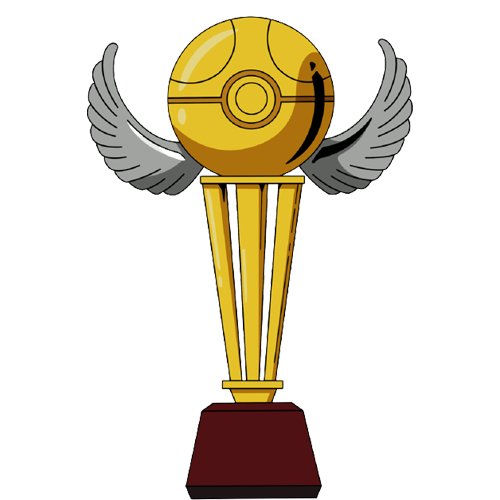
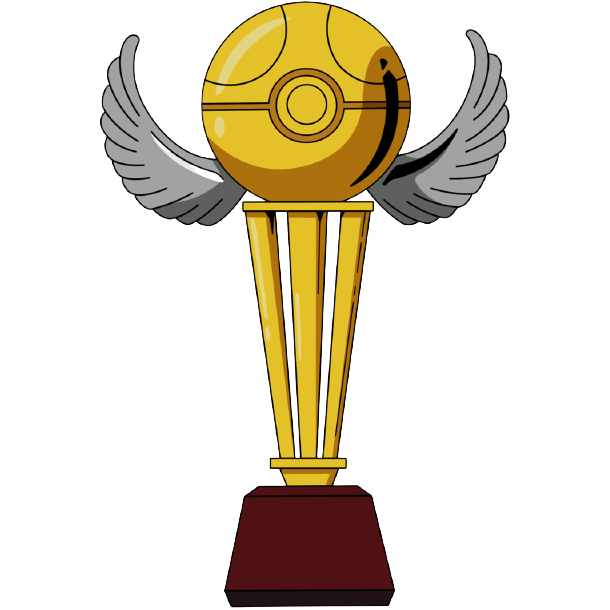
[GAME PLAYABLE] Centered win/lose pictures on the optionpane
-formatted pictures for win/lose and centered them
-put pikachu laughing as lose

Changed region(s): [[0.15, 0.0, 0.84, 1.0]]

diff --git a/src/view/Win_Lose/WinPane.java b/src/view/Win_Lose/WinPane.java
@@ -10,6 +10,7 @@ import view.PokemonPanel;
 
 /**
  * Used to tell player they won
+ * 
  * @author Kenneth Ahrens
  *
  */
@@ -18,11 +19,11 @@ public class WinPane extends AbstractWinLosePane {
 	/*
 	 * Constants that represent winning messages
 	 */
-	private final String FIN = "You reached the end!\nGood job!";
-	private final String CLEAR_ALL = "Wow, you cleared every room in the maze!"
-			+ "\nYou really are a Pokemon master!";
-	private final String TITLE = "You win!";
-	
+	private final String FIN = "You reached the end!";
+	private final String CLEAR_ALL = "Wow, you really are a Pokemon master! Congratulations!";
+	private final String TITLE = "You won!";
+	private final String CLEAR_TITLE = "You cleared the whole maze! You're a living Pokedex!";
+
 	/*
 	 * Icons that represent winning
 	 */
@@ -30,7 +31,7 @@ public class WinPane extends AbstractWinLosePane {
 	private final ImageIcon myWin;
 	private final String myWinPath = "./src/images/win_lose/win_trophy.png";
 	private final ImageIcon myWinAll;
-	private final String myWinAllPath = "./src/images/win_lose/pikadance.gif";
+	private final String myWinAllPath = "./src/images/win_lose/pikachucheer.gif";
 
 	/**
 	 * 
@@ -38,9 +39,7 @@ public class WinPane extends AbstractWinLosePane {
 	 */
 	public WinPane(final PokemonPanel thePanel) {
 		super(thePanel);
-		ImageIcon win = new ImageIcon(myWinPath);
-		myWin = new ImageIcon(win.getImage().getScaledInstance(DEFAULT_SIZE,
-				DEFAULT_SIZE, Image.SCALE_DEFAULT));
+		myWin = new ImageIcon(myWinPath);
 
 		myWinAll = new ImageIcon(myWinAllPath);
 
@@ -55,12 +54,15 @@ public class WinPane extends AbstractWinLosePane {
 
 		if (cleared) {
 			if (clearedAll) {
-				JOptionPane.showMessageDialog(null, CLEAR_ALL, TITLE,
-						JOptionPane.PLAIN_MESSAGE, myWinAll);
+			
+				PanePanelMaker winAllPanel = new PanePanelMaker(myWinAll, CLEAR_ALL);
+				JOptionPane.showMessageDialog(null, winAllPanel, CLEAR_TITLE,
+						JOptionPane.PLAIN_MESSAGE, null);
 
 			} else {
-				JOptionPane.showMessageDialog(null, FIN, TITLE,
-						JOptionPane.PLAIN_MESSAGE, myWin);
+				PanePanelMaker winPanel = new PanePanelMaker(myWin, FIN);
+				JOptionPane.showMessageDialog(null, winPanel, TITLE,
+						JOptionPane.PLAIN_MESSAGE, null);
 			}
 
 			super.promptPlayAgain();

diff --git a/src/view/Win_Lose/PanePanelMaker.java b/src/view/Win_Lose/PanePanelMaker.java
@@ -1,0 +1,48 @@
+package view.Win_Lose;
+
+import javax.swing.JPanel;
+import java.awt.BorderLayout;
+import java.awt.Dimension;
+import java.awt.GridBagLayout;
+
+import javax.swing.JLabel;
+import javax.swing.ImageIcon;
+
+/**
+ * Makes a panel with an image on top and text on bottom. Makes sure it is
+ * centered with border layout + grid bag layout.
+ * 
+ * @author Kenneth Ahrens
+ *
+ */
+public class PanePanelMaker extends JPanel {
+
+	/**
+	 * 
+	 * @param theIcon
+	 * @param theText
+	 */
+	public PanePanelMaker(ImageIcon theIcon, String theText) {
+		this.setLayout(new GridBagLayout()); // centers everything on this panel
+		JPanel container = new JPanel(); // panel that contains the image and
+											// text
+
+		// put image and text on a dummy panel
+		JPanel imgTextPanel = new JPanel();
+		imgTextPanel.setLayout(new BorderLayout(0, 0));
+		JLabel imgLabel = new JLabel("");
+		imgLabel.setIcon(theIcon);
+		imgTextPanel.add(imgLabel, BorderLayout.CENTER);
+		
+		//format text
+		JLabel txtLabel = new JLabel(theText);
+		txtLabel.setHorizontalAlignment(JLabel.CENTER);
+		txtLabel.setVerticalAlignment(JLabel.CENTER);
+		imgTextPanel.add(txtLabel, BorderLayout.SOUTH);
+
+
+		// put imgPanel onto this panel
+		this.add(imgTextPanel);
+	}
+
+}

diff --git a/src/controller/movement_actions/MovementAction.java b/src/controller/movement_actions/MovementAction.java
@@ -7,6 +7,7 @@ import java.awt.event.ActionEvent;
 
 import javax.swing.AbstractAction;
 import javax.swing.ImageIcon;
+import javax.swing.JOptionPane;
 
 import model.Maze;
 import view.PokemonPanel;
@@ -21,6 +22,9 @@ import view.PokemonPanel;
  */
 public class MovementAction extends AbstractAction {
 
+	/*
+	 * What needs to be updated after doing this action
+	 */
 	protected Maze myMaze = Maze.getInstance();
 	private final PokemonPanel myPanel;
 
@@ -52,12 +56,9 @@ public class MovementAction extends AbstractAction {
 		// set the attempted move location of the direction pressed
 		myMaze.setAttemptLocation(newPos);
 		if (myMaze.getAttemptRoom().hasVisited()) {
-//		        myPanel.setMyReveal(true);
-//			myPanel.setImgBrightness(); // keep pokemon revealed if it has been
 			myMaze.setPlayerLocation(newPos);
-                } /*
-                   * else { // myPanel.setMyReveal(false); myPanel.setImgBrightness(); }
-                   */
+		}
+
 		updateGUI();
 
 	}
@@ -68,7 +69,7 @@ public class MovementAction extends AbstractAction {
 	 * 
 	 */
 	private void updateGUI() {
-		
+
 //		firePropertyChange("newpos", null, null);
 		myPanel.refreshGUI();
 

diff --git a/src/view/Win_Lose/LosePane.java b/src/view/Win_Lose/LosePane.java
@@ -19,13 +19,14 @@ public class LosePane extends AbstractWinLosePane {
 	 * Constants to represent losing messages
 	 */
 	private final String LOST_MSG = "Looks like you should have brought HM Cut with you!";
-	private final String LOST_TITLE = "You lost!";
+	private final String LOST_TITLE = "All paths are blocked... you lost!";
 	
 	/*
 	 * Icons shown upon losing
 	 */
 	private final ImageIcon myLose;
-	private final String myLosePath = "./src/images/win_lose/mocking.gif";
+	private final String myLosePath = "./src/images/win_lose/pikachulaugh.gif";
+	//private final String myLosePath = "./src/images/win_lose/mocking.gif";
 	
 
 	/**
@@ -45,8 +46,8 @@ public class LosePane extends AbstractWinLosePane {
 		boolean lost = super.hasLost();
 
 		if (lost) {
-
-			JOptionPane.showMessageDialog(null, LOST_MSG, LOST_TITLE, JOptionPane.PLAIN_MESSAGE, myLose);
+			PanePanelMaker losePane = new PanePanelMaker(myLose, LOST_MSG);
+			JOptionPane.showMessageDialog(null, losePane, LOST_TITLE, JOptionPane.PLAIN_MESSAGE, null);
 
 			super.promptPlayAgain();
 		} else {

diff --git a/src/view/Win_Lose/AbstractWinLosePane.java b/src/view/Win_Lose/AbstractWinLosePane.java
@@ -118,9 +118,11 @@ public abstract class AbstractWinLosePane extends Container {
 		JOptionPane.showMessageDialog(null, "The game has been reset!");
 	}
 
+	/**
+	 * Close the software
+	 */
 	protected void exitGame() {
-		JOptionPane.showMessageDialog(null,
-				"Game will now close. Thanks for playing!");
+		JOptionPane.showMessageDialog(null, "Thanks for playing!", "Game will now exit.", JOptionPane.INFORMATION_MESSAGE);
 		System.exit(0);
 	}
 
